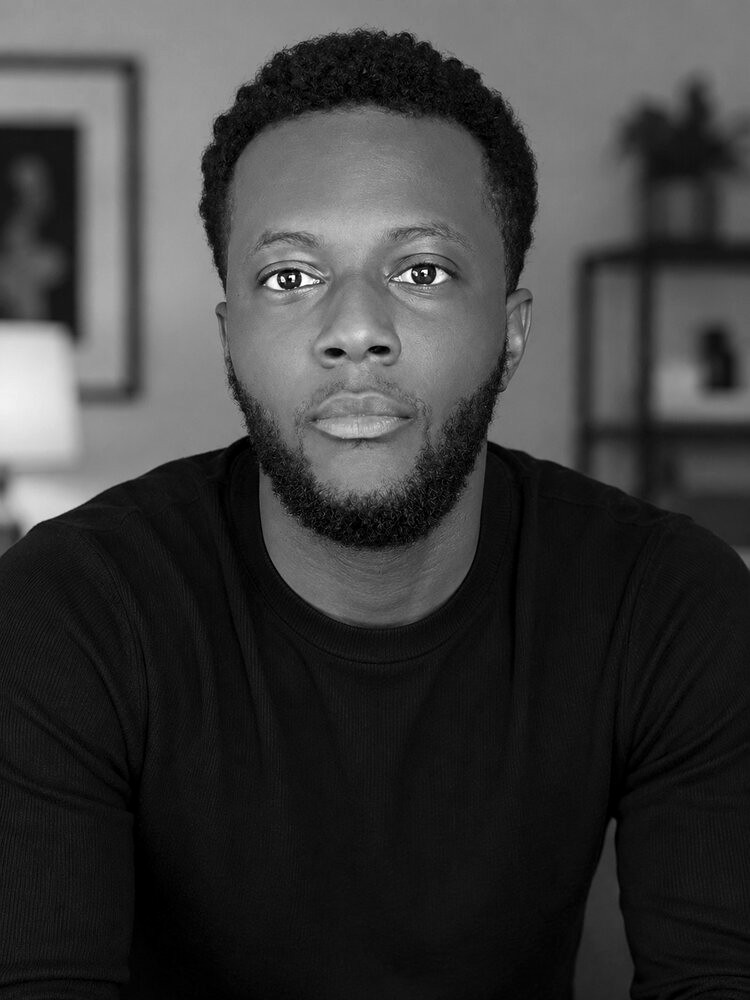
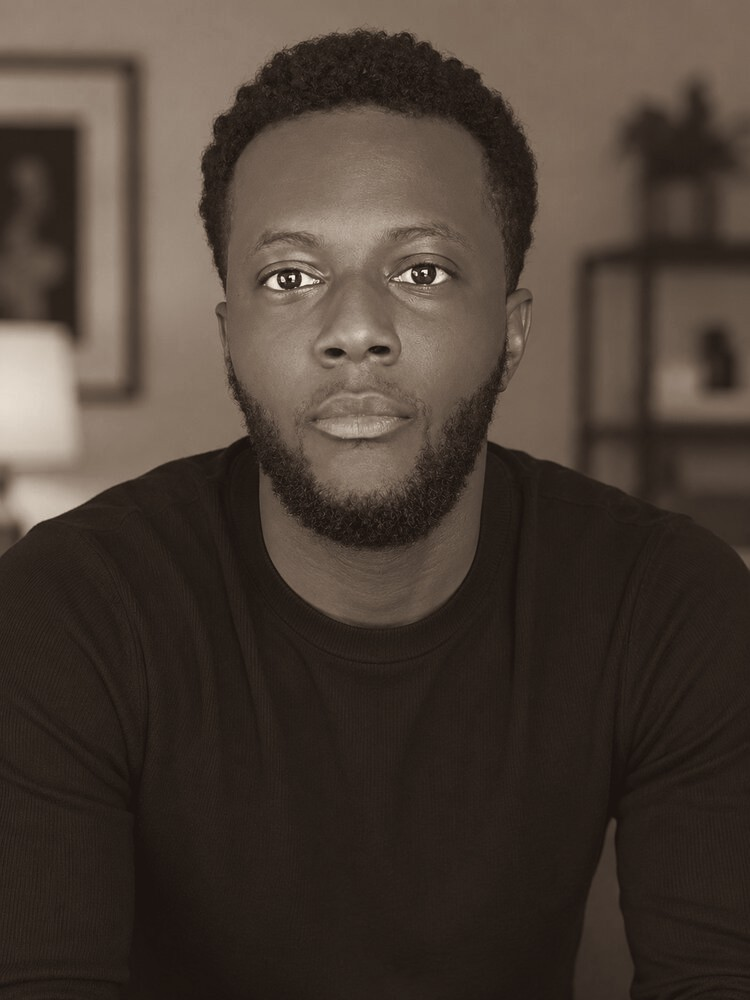
Add files via upload

diff --git a/app/globals.css b/app/globals.css
@@ -165,6 +165,36 @@ section{ scroll-margin-top:76px; }
 .zuri-definition .pos{ margin-block:16px 22px; padding-bottom:22px; border-bottom:1px solid var(--line); color:var(--clay); }
 .zuri-definition p{ color:var(--cocoa); }
 
+/* Ils nous font confiance : deux bandeaux défilants en sens opposés */
+.trust{ padding-block:clamp(72px,10vw,140px) clamp(64px,9vw,120px); }
+.trust h2{ font-size:clamp(34px,5.4vw,78px); line-height:1.06; }
+.trust-bands{ margin-top:clamp(40px,6vw,80px); border-block:1px solid var(--line); }
+.trust-band{ overflow:hidden; white-space:nowrap; }
+.trust-band + .trust-band{ border-top:1px solid var(--line); }
+.trust-track{ display:inline-flex; align-items:center; animation:trust-slide 38s linear infinite; will-change:transform; }
+.trust-band.rev .trust-track{ animation-direction:reverse; animation-duration:46s; }
+.trust-bands:hover .trust-track{ animation-play-state:paused; }
+@keyframes trust-slide{ to{ transform:translateX(-50%); } }
+.trust-logo{ display:inline-flex; align-items:center; justify-content:center; padding:clamp(22px,3vw,40px) clamp(28px,4.4vw,68px); }
+.trust-logo img{
+  height:clamp(64px,8vw,104px); width:auto; max-width:none; display:block;
+  filter:grayscale(1) contrast(1.05); opacity:.82; transition:filter .35s, opacity .35s;
+}
+.trust-logo img.is-wordmark{ height:clamp(22px,2.8vw,36px); }
+.trust-logo:hover img{ filter:none; opacity:1; }
+/* écrans tactiles : pas de survol, les logos restent en couleur */
+@media (hover:none){ .trust-logo img{ filter:none; opacity:1; } }
+.trust-item{ display:inline-flex; align-items:center; }
+.trust-name{
+  font-family:var(--font-display); font-size:clamp(34px,6vw,84px); line-height:1; letter-spacing:.04em; text-transform:uppercase;
+  padding-block:clamp(18px,2.6vw,34px); color:transparent; -webkit-text-stroke:1px var(--espresso);
+}
+.trust-sep{ width:9px; height:9px; border-radius:50%; background:var(--clay); margin-inline:clamp(22px,3.4vw,52px); flex:none; }
+@media (prefers-reduced-motion:reduce){
+  .trust-track{ animation:none; }
+  .trust-band{ overflow-x:auto; }
+}
+
 @media (max-width:760px){
   body{ font-size:17px; }
   .hero{ min-height:min(86svh,760px); }
@@ -284,7 +314,7 @@ section{ scroll-margin-top:76px; }
 .founder-grid{ display:grid; grid-template-columns:minmax(0,4fr) minmax(0,7fr); gap:clamp(32px,6vw,96px); align-items:start; }
 @media (max-width:820px){ .founder-grid{ grid-template-columns:minmax(0,1fr); } }
 .founder-photo{ margin:0; position:sticky; top:24px; }
-.founder-photo img{ display:block; width:100%; aspect-ratio:3/4; object-fit:cover; object-position:top; filter:grayscale(1) contrast(1.04); }
+.founder-photo img{ display:block; width:100%; aspect-ratio:3/4; object-fit:cover; object-position:top; }
 .founder-caption{ display:flex; justify-content:space-between; align-items:baseline; gap:10px; padding-top:14px; font-weight:400; }
 .founder-caption .mono{ color:var(--clay); }
 @media (max-width:820px){ .founder-photo{ position:static; max-width:360px; } }

diff --git a/components/TrustedBy.tsx b/components/TrustedBy.tsx
@@ -1,0 +1,69 @@
+/**
+ * Bloc "Ils nous font confiance" de l'accueil.
+ * Deux bandeaux qui défilent en sens opposés : les logos, puis les noms en lettres au contour.
+ * Chaque liste est écrite deux fois pour que le défilement boucle sans saut.
+ * Pour ajouter une marque : déposer son logo dans public/logos/ et ajouter une ligne à BRANDS.
+ */
+
+type Brand = { name: string; logo: string; small?: boolean };
+
+const BRANDS: Brand[] = [
+  { name: "Afro Nation", logo: "/logos/logo-afro-nation.png" },
+  { name: "Shein", logo: "/logos/logo-shein.png", small: true },
+  { name: "Temu", logo: "/logos/logo-temu.png" },
+  { name: "Teveo", logo: "/logos/logo-teveo.png" },
+  { name: "Paris FC", logo: "/logos/logo-paris-fc.png" },
+  { name: "Cure Vitamine", logo: "/logos/logo-cure-vitamine.png" },
+];
+
+// le second bandeau démarre décalé pour ne pas répéter la même marque juste en dessous
+const half = Math.ceil(BRANDS.length / 2);
+const SHIFTED = [...BRANDS.slice(half), ...BRANDS.slice(0, half)];
+
+export default function TrustedBy() {
+  return (
+    <section className="trust">
+      <div className="wrap">
+        <div className="eyebrow">Marques</div>
+        <h2>Ils nous font confiance</h2>
+      </div>
+
+      <div className="trust-bands">
+        <div className="trust-band">
+          <div className="trust-track">
+            {[0, 1].map((pass) =>
+              BRANDS.map((b) => (
+                <span
+                  className="trust-logo"
+                  key={`${pass}-${b.name}`}
+                  aria-hidden={pass === 1 ? true : undefined}
+                >
+                  {/* eslint-disable-next-line @next/next/no-img-element */}
+                  <img
+                    src={b.logo}
+                    alt={pass === 0 ? b.name : ""}
+                    className={b.small ? "is-wordmark" : undefined}
+                    loading="lazy"
+                  />
+                </span>
+              ))
+            )}
+          </div>
+        </div>
+
+        <div className="trust-band rev" aria-hidden="true">
+          <div className="trust-track">
+            {[0, 1].map((pass) =>
+              SHIFTED.map((b) => (
+                <span className="trust-item" key={`${pass}-${b.name}`}>
+                  <span className="trust-name">{b.name}</span>
+                  <span className="trust-sep" />
+                </span>
+              ))
+            )}
+          </div>
+        </div>
+      </div>
+    </section>
+  );
+}

diff --git a/app/page.tsx b/app/page.tsx
@@ -1,5 +1,6 @@
 import SiteHeader from "@/components/SiteHeader";
 import SiteFooter from "@/components/SiteFooter";
+import TrustedBy from "@/components/TrustedBy";
 import { HeroBackdrop, HeroReelControl } from "@/components/HeroVideo";
 
 export default function Home() {
@@ -70,6 +71,8 @@ export default function Home() {
           </div>
         </div>
       </section>
+
+      <TrustedBy />
 
       <SiteFooter
         links={[

diff --git a/LISEZ-MOI.md b/LISEZ-MOI.md
@@ -1,41 +1,24 @@
-# Refonte : ambiance sable et vidéo de fond (octobre 2026)
-
-Tous les textes du site sont inchangés. Seuls le design, l'en-tête, le pied de page et l'accueil changent.
+# Ajout du bloc « Ils nous font confiance » et photo du fondateur teintée
 
 ## Fichiers à envoyer sur GitHub (mêmes chemins)
 
 Modifiés :
+- app/page.tsx (le bloc est ajouté après « Que veut dire Zuri ? »)
 - app/globals.css
-- app/layout.tsx
-- app/page.tsx
-- app/collaborations/page.tsx
-- components/SiteHeader.tsx
-- components/SiteFooter.tsx
-- components/HeroVideo.tsx
-- components/TalentGrid.tsx
-- public/founder-steve.jpg (noir et blanc)
-- public/founder-steve.webp (noir et blanc)
+- public/founder-steve.jpg (monochrome brun chaud)
+- public/founder-steve.webp (monochrome brun chaud)
 
 Nouveaux :
-- app/fonts/marcellus-latin-400-normal.woff2
-- app/fonts/jost-latin-300-normal.woff2
-- app/fonts/jost-latin-400-normal.woff2
-- app/fonts/jost-latin-500-normal.woff2
-- public/hero-desktop.mp4
-- public/hero-desktop.jpg
-- public/hero-mobile.mp4
-- public/hero-mobile.jpg
-
-## Fichiers devenus inutiles (suppression facultative, le site marche même s'ils restent)
-
-- components/InkBackground.tsx
-- components/ContactButton.tsx, ContactLink.tsx, ContactModal.tsx
-- components/TalentRoster.tsx, Ticker.tsx, SocialIcons.tsx
-- public/hero-video.mp4
-- public/talents/ : mejane-01, mejane-modal, anais-02, anais-modal, clyde-03, clyde-modal, antoine-04, antoine-modal (.jpg)
+- components/TrustedBy.tsx
+- public/logos/logo-afro-nation.png
+- public/logos/logo-shein.png
+- public/logos/logo-temu.png
+- public/logos/logo-teveo.png
+- public/logos/logo-paris-fc.png
+- public/logos/logo-cure-vitamine.png
 
 ## À savoir
 
-- Les polices (Marcellus, Jost) sont dans app/fonts : plus aucun appel à Google Fonts.
-- La vidéo de fond est muette et en boucle. Écran large : hero-desktop. Téléphone : hero-mobile.
-- Pour changer la vidéo, remplacer les 4 fichiers hero-* dans public/ en gardant les mêmes noms.
+- Les logos sont gris par défaut et reprennent leurs couleurs au survol. Sur téléphone et tablette, ils sont en couleur en permanence.
+- Pour ajouter une marque : déposer son logo dans public/logos/ et ajouter une ligne à la liste BRANDS dans components/TrustedBy.tsx.
+- Le défilement s'arrête au survol, et ne démarre pas si le visiteur a demandé moins d'animations.
